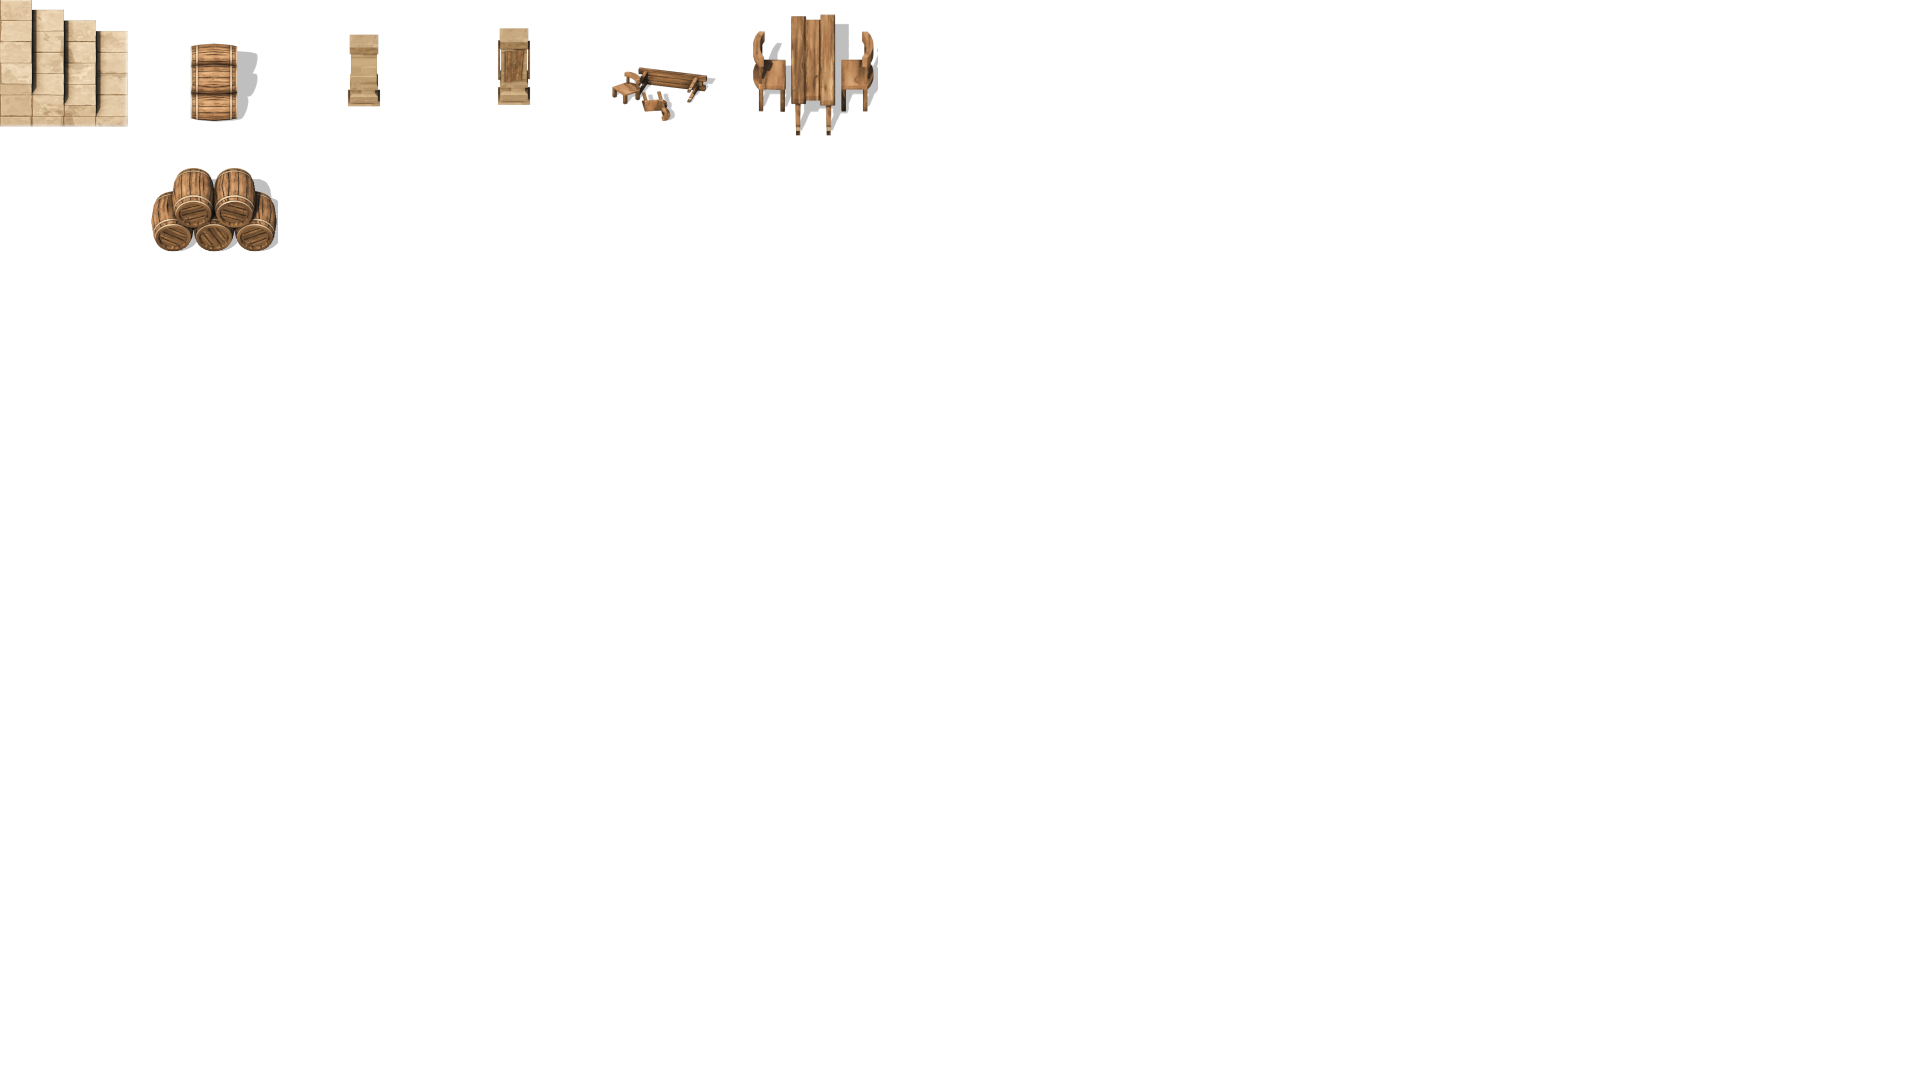
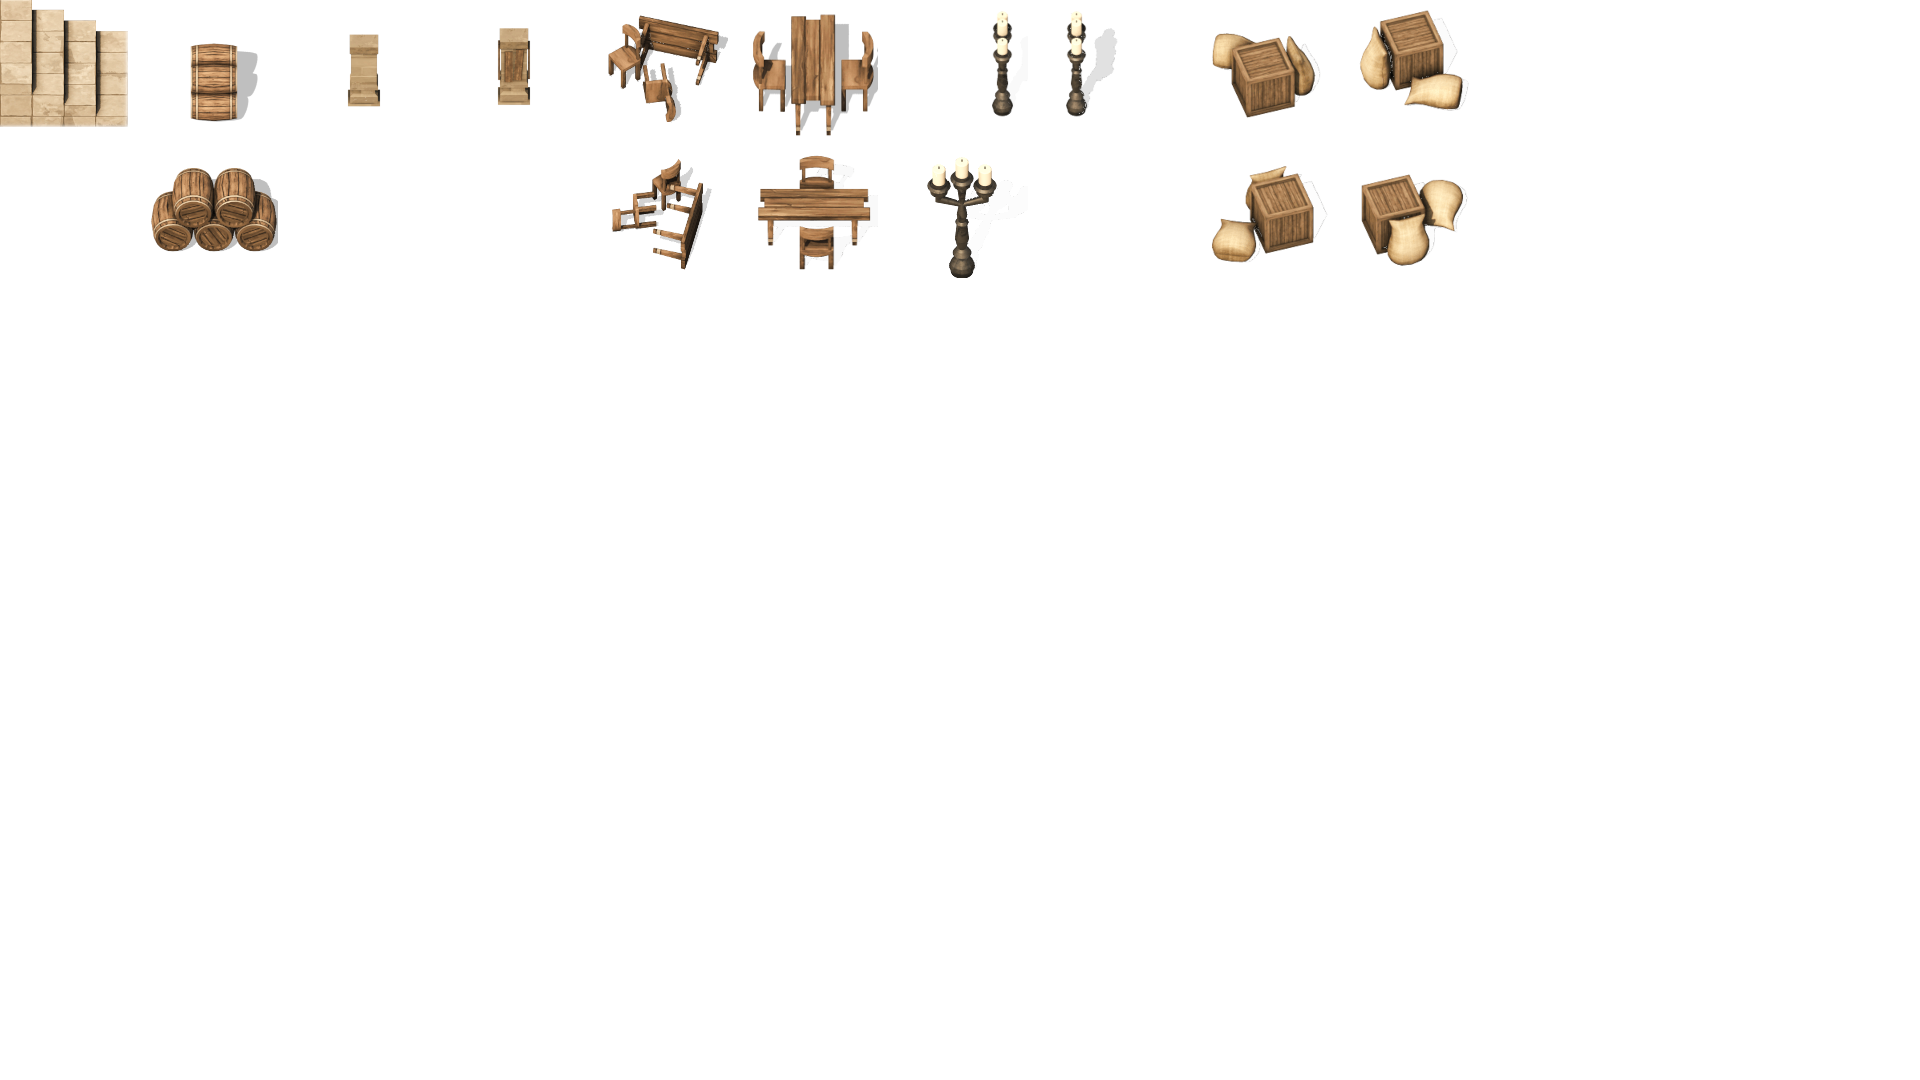
feat: add new assets

diff --git a/editor_screen.cpp b/editor_screen.cpp
@@ -155,7 +155,7 @@ void EditorScreen::update(sf::Time dt)
     
     // Set the floor layer id to it's current value
     if (!mFloorTypeSetup) {
-      for (size_t i = 0; i < 12; i++) {
+      for (size_t i = 0; i < 16; i++) {
         if (currentFloorLayer == floorType[i]) {
           floorTypeValue = static_cast<int>(i);
           break;
@@ -168,10 +168,11 @@ void EditorScreen::update(sf::Time dt)
       "stone_wall_corner_se", "stone_wall_hn", "stone_wall_hs", "stone_wall_vw", "stone_wall_ve",
     "stone_wall_broken_w", "stone_wall_broken_e", "stone_wall_broken_n", "stone_wall_broken_s",
     "stone_wall_window_bars_e", "stone_wall_window_bars_w", "stone_wall_window_bars_n", "stone_wall_window_bars_s",
-    "stone_wall_door_open_e", "stone_wall_door_open_w", "stone_wall_door_open_n", "stone_wall_door_open_s" };
+    "stone_wall_door_open_e", "stone_wall_door_open_w", "stone_wall_door_open_n", "stone_wall_door_open_s",
+    "wall_books_w", "wall_books_e", "wall_books_n", "wall_books_s" };
     // Set the level layer id to it's current value
     if (!mLevelTypeSetup) {
-      for (size_t i = 0; i < 21; i++) {
+      for (size_t i = 0; i < 25; i++) {
         if (currentLevelLayer == levelObjectType[i]) {
           levelObjectTypeValue = static_cast<int>(i);
           break;
@@ -181,10 +182,13 @@ void EditorScreen::update(sf::Time dt)
     }
 
     static const char* staticObjectType[]{ "none", "ladder_down", "barrels_stacked_h", "barrels_stacked_v",
-      "stone_column_n", "stone_column_wood_n", "table_chairs_broken_n", "table_short_chairs_w"};
+      "stone_column_n", "stone_column_wood_n", "table_chairs_broken_n", "table_chairs_broken_e",
+      "table_short_chairs_w",
+      "table_short_chairs_n", "candle_stand_e", "candle_stand_e", "candle_stand_c",
+      "sacks_crate_e", "sacks_crate_w", "sacks_crate_n", "sacks_crate_s" };
     // Set the static object layer id to it's current value
     if (!mStaticObjectSetup) {
-      for (size_t i = 0; i < 8; i++) {
+      for (size_t i = 0; i < 17; i++) {
         if (currentObjectLayer == staticObjectType[i]) {
           staticObjectTypeValue = static_cast<int>(i);
           break;
